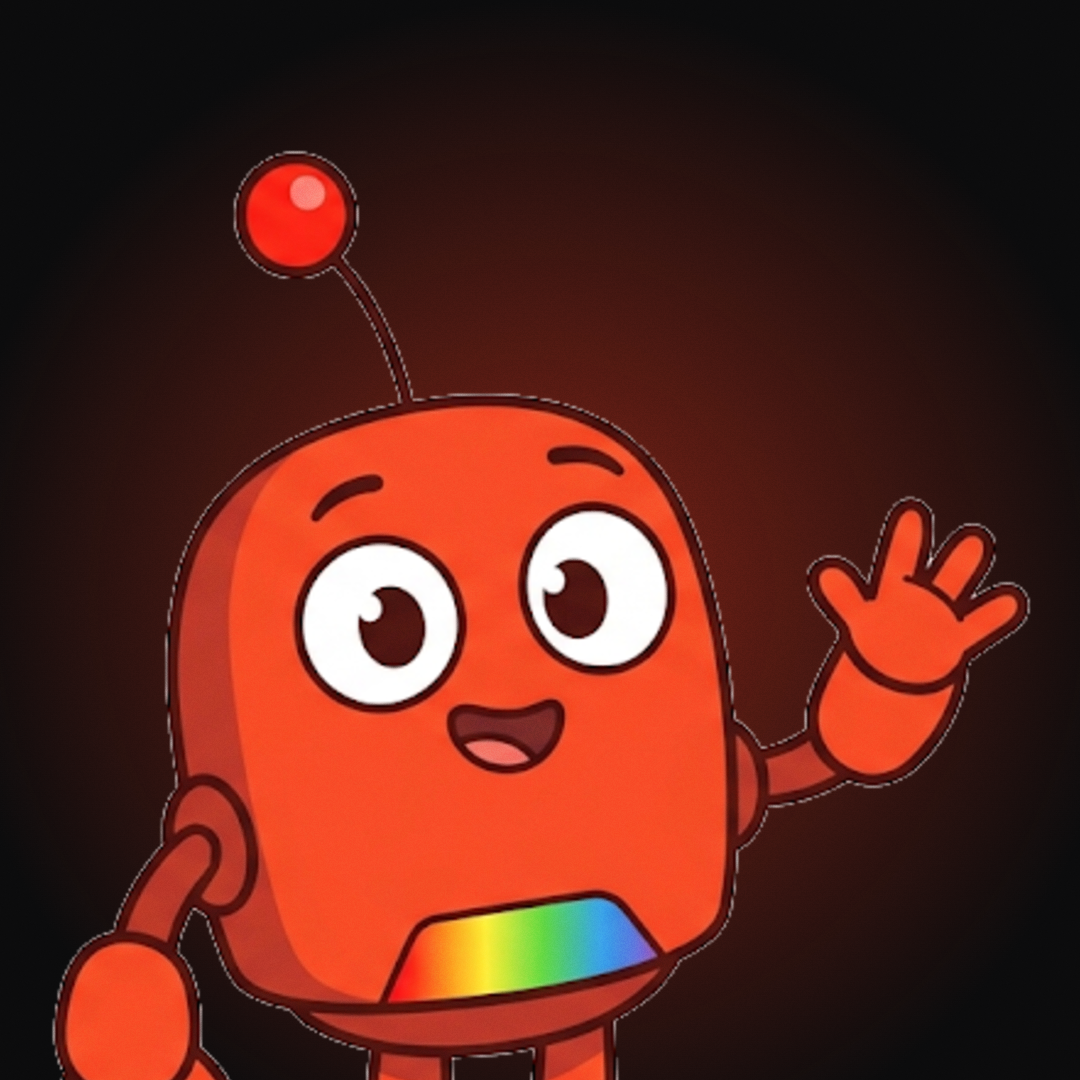
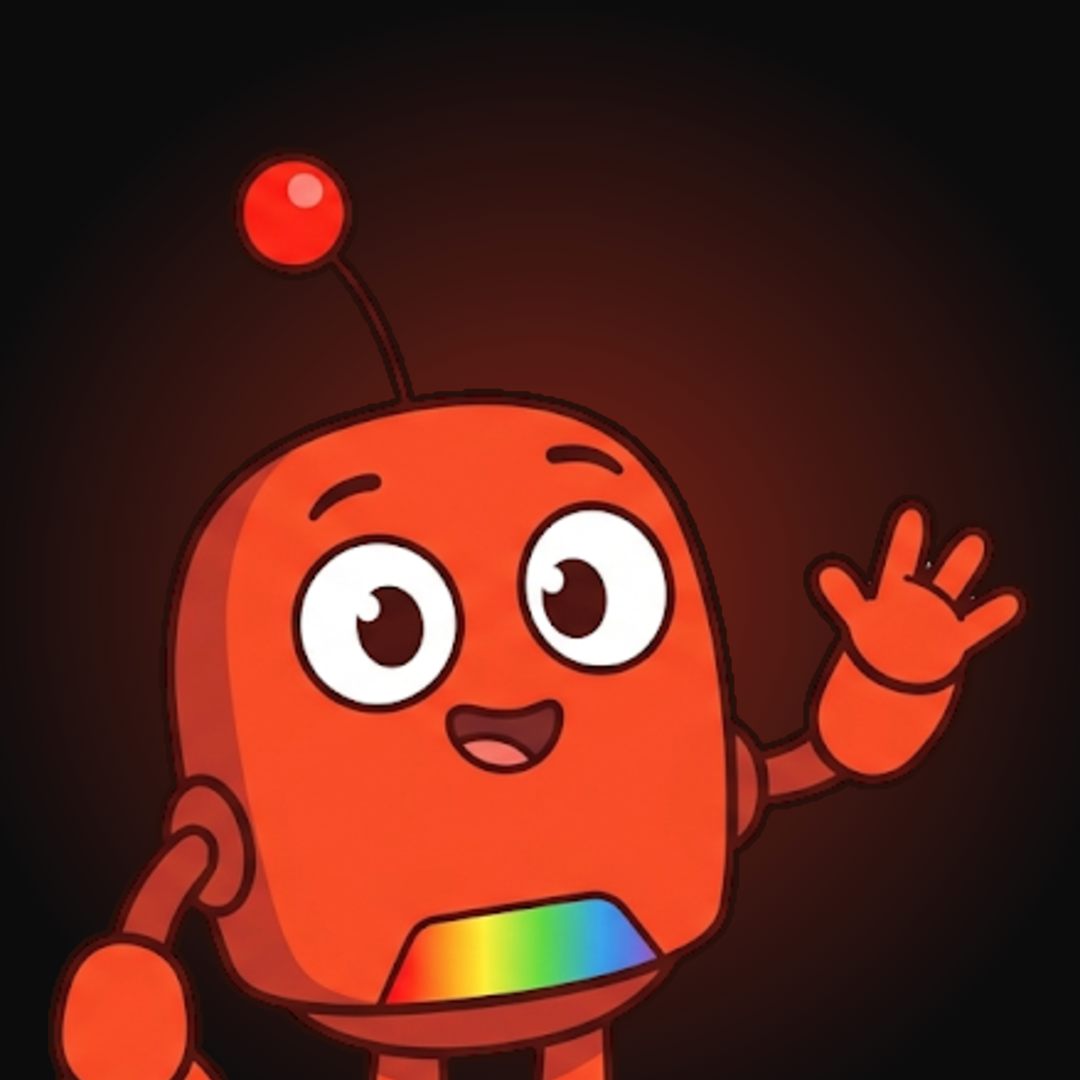
Foto de perfil: Bit do Gemini sem grão e com recorte limpo

diff --git a/Conteudo_Bit/Producao/foto_perfil.html b/Conteudo_Bit/Producao/foto_perfil.html
@@ -10,8 +10,11 @@ function cutout(img) {
   const id = x.getImageData(0, 0, W, H), d = id.data, seen = new Uint8Array(W * H), st = [], white = i => d[i] > 228 && d[i + 1] > 228 && d[i + 2] > 228;
   for (let i = 0; i < W; i++) st.push(i, (H - 1) * W + i); for (let j = 0; j < H; j++) st.push(j * W, j * W + W - 1);
   while (st.length) { const p = st.pop(); if (seen[p]) continue; const i = p * 4; if (!white(i)) continue; seen[p] = 1; d[i + 3] = 0; const px = p % W, py = (p / W) | 0; if (px) st.push(p - 1); if (px < W - 1) st.push(p + 1); if (py) st.push(p - W); if (py < H - 1) st.push(p + W); }
+  for (let pass = 0; pass < 3; pass++) { const kill = []; // apara a franja clara que sobra do fundo branco em volta do contorno
+    for (let p = 0; p < W * H; p++) { const i = p * 4; if (!d[i + 3]) continue; const px = p % W, py = (p / W) | 0; const edge = (px && seen[p - 1]) || (px < W - 1 && seen[p + 1]) || (py && seen[p - W]) || (py < H - 1 && seen[p + W]); if (edge && (d[i] + d[i + 1] + d[i + 2]) / 3 > 150) kill.push(p); }
+    for (const p of kill) { d[p * 4 + 3] = 0; seen[p] = 1; } }
   let x0 = W, y0 = H, x1 = 0, y1 = 0;
-  for (let p = 0; p < W * H; p++) { const i = p * 4; if (!d[i + 3]) continue; const px = p % W, py = (p / W) | 0; if ((px && seen[p - 1]) || (px < W - 1 && seen[p + 1]) || (py && seen[p - W]) || (py < H - 1 && seen[p + W])) { const l = (d[i] + d[i + 1] + d[i + 2]) / 3; d[i + 3] = Math.max(0, Math.min(255, (255 - l) * 3)); } if (d[i + 3] > 20) { x0 = Math.min(x0, px); x1 = Math.max(x1, px); y0 = Math.min(y0, py); y1 = Math.max(y1, py); } }
+  for (let p = 0; p < W * H; p++) { const i = p * 4; if (!d[i + 3]) continue; const px = p % W, py = (p / W) | 0; if ((px && seen[p - 1]) || (px < W - 1 && seen[p + 1]) || (py && seen[p - W]) || (py < H - 1 && seen[p + W])) { const l = (d[i] + d[i + 1] + d[i + 2]) / 3; d[i + 3] = Math.max(0, Math.min(255, (255 - l) * 3)); d[i] = 42; d[i + 1] = 15; d[i + 2] = 10; } if (d[i + 3] > 20) { x0 = Math.min(x0, px); x1 = Math.max(x1, px); y0 = Math.min(y0, py); y1 = Math.max(y1, py); } }
   x.putImageData(id, 0, 0); return { c, box: [x0, y0, x1, y1] };
 }
 (async () => {
@@ -22,8 +25,12 @@ function cutout(img) {
   const glow = g.createRadialGradient(S / 2, S * 0.55, 40, S / 2, S * 0.55, S * 0.55); glow.addColorStop(0, 'rgba(255,59,31,.45)'); glow.addColorStop(1, 'rgba(255,59,31,0)'); g.fillStyle = glow; g.fillRect(0, 0, S, S);
   // enquadramento: do topo da antena até ~62% da altura do personagem (peito), centrado no corpo
   const h = (y1 - y0) * 0.8, scale = (S * 0.8) / h, cx = (x0 + x1) / 2;
-  g.imageSmoothingQuality = 'high'; g.drawImage(c, S / 2 - cx * scale, S * 0.14 - y0 * scale, c.width * scale, c.height * scale);
-  grain(g, S, S, 0.05);
+  const dx = S / 2 - cx * scale, dy = S * 0.14 - y0 * scale, dw = c.width * scale, dh = c.height * scale;
+  // contorno escuro por trás da silhueta: os pixels de borda meio transparentes passam a misturar com marrom, não com o fundo
+  const sil = document.createElement('canvas'); sil.width = c.width; sil.height = c.height; const sx = sil.getContext('2d'); sx.drawImage(c, 0, 0); sx.globalCompositeOperation = 'source-in'; sx.fillStyle = '#2A0F0A'; sx.fillRect(0, 0, sil.width, sil.height);
+  g.imageSmoothingQuality = 'high'; for (let a = 0; a < 16; a++) g.drawImage(sil, dx + Math.cos(a / 16 * 6.283) * 3, dy + Math.sin(a / 16 * 6.283) * 3, dw, dh);
+  g.drawImage(c, dx, dy, dw, dh);
+  // sem grão na foto de perfil: a arte ampliada já fica suave e o grão vira ruído
   for (const cls of ['', 'c', 'mini']) { const v = document.createElement('img'); v.src = out.toDataURL(); if (cls) v.className = cls; v.style.width = cls === 'mini' ? '56px' : '320px'; if (cls === 'c' || cls === 'mini') v.style.borderRadius = '50%'; document.body.append(v); }
   if (q.has('save')) await fetch('/save?dir=perfil&name=foto_perfil.png', { method: 'POST', body: await new Promise(r => out.toBlob(r, 'image/png')) });
   document.title = 'ready';
